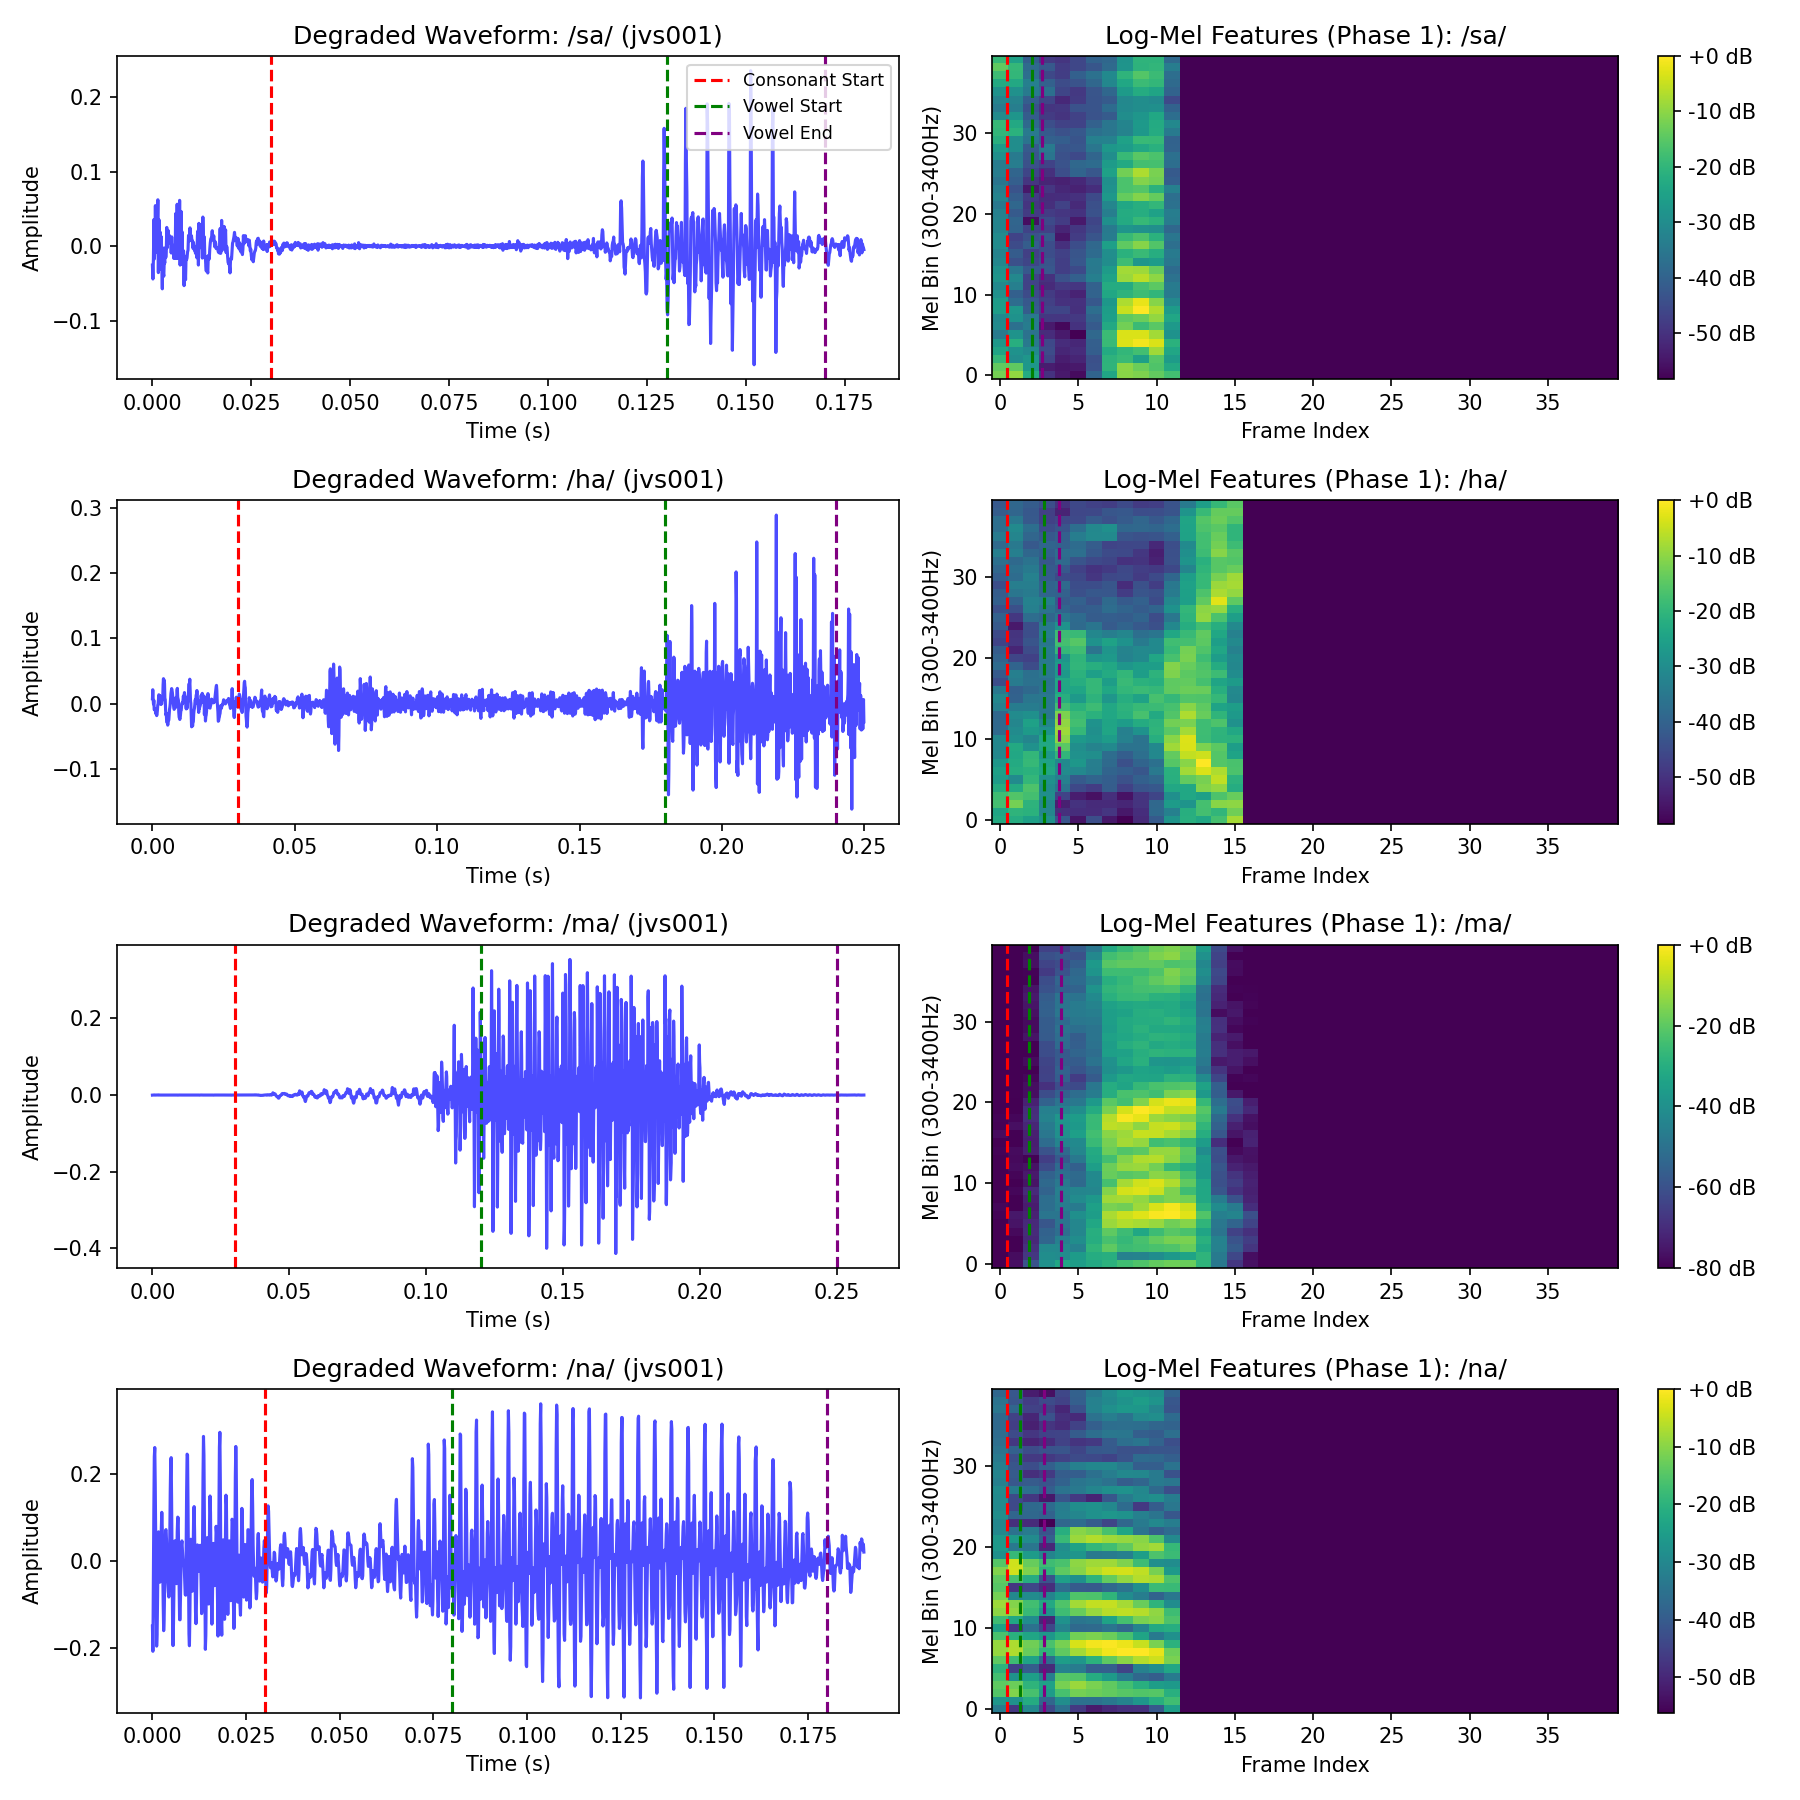
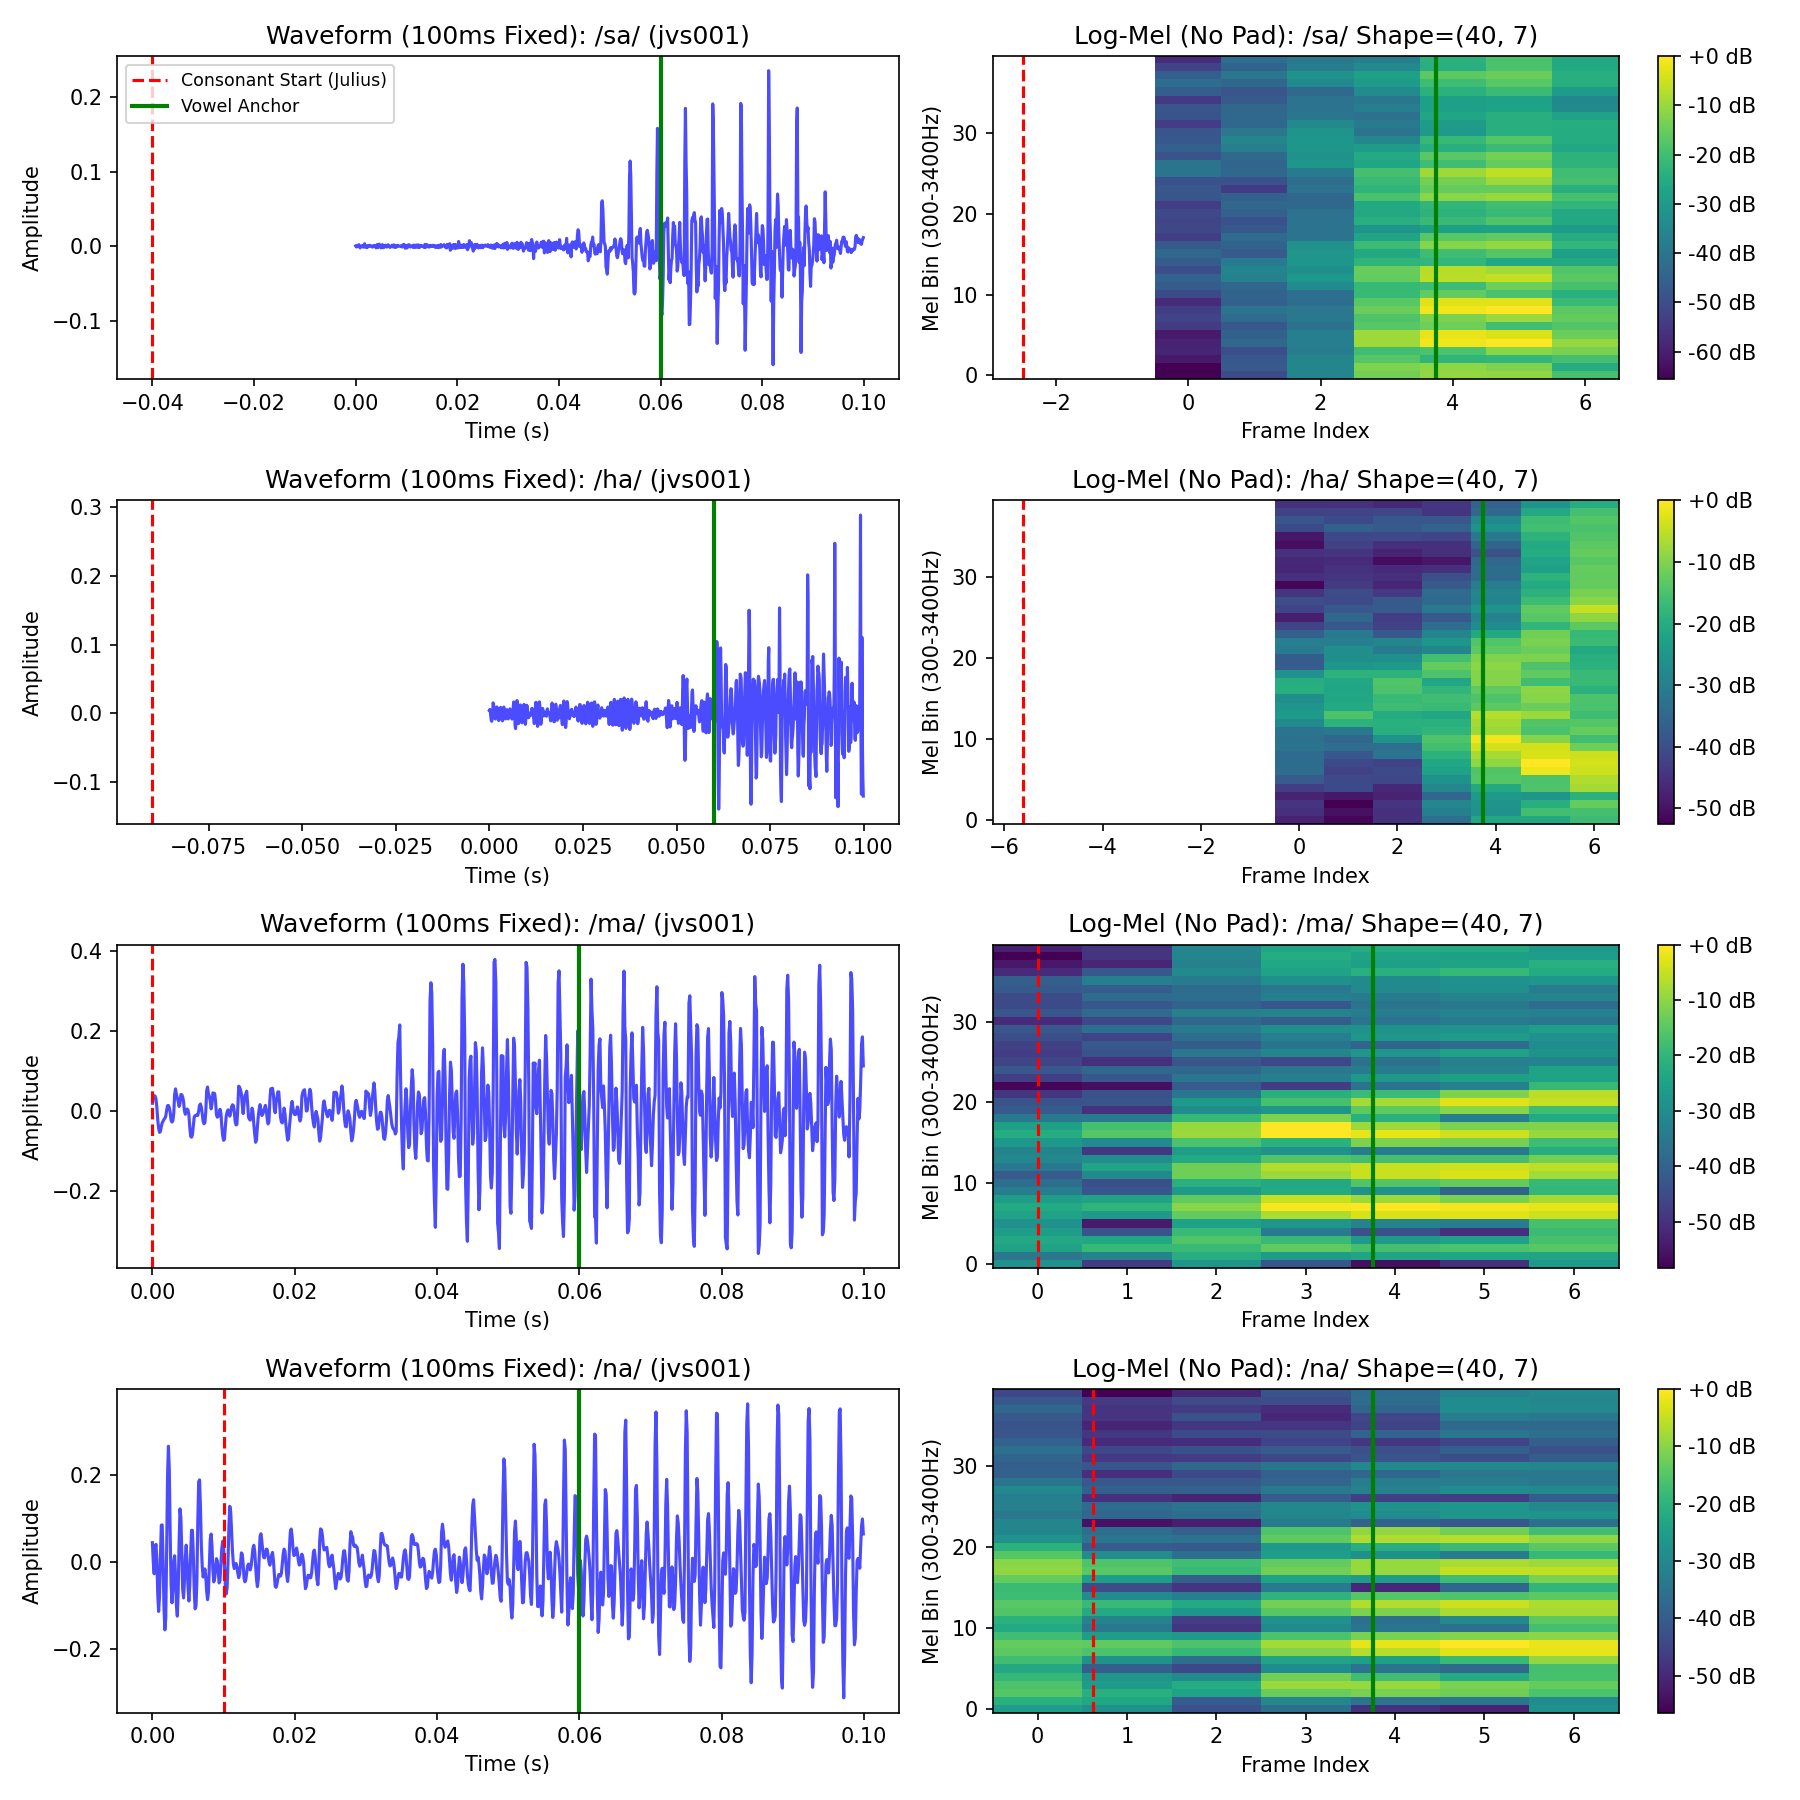
docs: update minutes with Vowel Anchor details and fix list item formatting

diff --git a/docs/minutes/05_consonant_validation_jvs.md b/docs/minutes/05_consonant_validation_jvs.md
@@ -22,6 +22,21 @@
 - **B（本物音源＋合成劣化）：今回（子音）** ← 母音より信頼度が高い
 - 将来（本物音源＋実回線劣化）：Phase2の最終仕上げ
 
+## 13.5 アライメントの欠陥とVowel-Anchor（母音アンカー）法への改修
+ステップ2-Bの目視検証により、Juliusアライメント（r9y9）には以下の致命的な欠陥があることが判明した。
+1. **子音開始境界の破綻**: 発話先頭の無音（silB）の終端や、ポーズ（sp）の欠落により、実際の音響的子音よりも数十ms手前に子音開始ラベルが打たれ、子音区間として切り出された音声の大半が「無音」になるケースが多発した（/ma/、/sa/等で確認）。
+2. **ゼロ埋めによるイカサマの余地**: 当初、変動する子音長に合わせてLog-Mel特徴量の後半をゼロパディングしていたが、この「パディングの長さ」が線形分類器に対するカンニング（長さによる音素判別）のトリガーとなる危険性が指摘された。
+
+これらを根本的に解決するため、切り出しロジックを**Vowel-Anchor（母音開始基準）方式**へ抜本的に改修した。
+- 精度が極めて高い「母音の開始位置」を絶対的なアンカー（基準点＝0ms）とする。
+- アンカーから前60ms、後40msの「合計100ms」を機械的に固定長で抽出する。
+- 抽出対象から「直前が無音・ポーズ」であるCV音節を除外する（コンテキスト・フィルタリング）。
+
+この改修により、ゼロ埋めパディングが完全に排除され、全CV特徴量が同一サイズ（40x7）かつ同一の「母音立ち上がり位置」で整列するようになり、分類器が純粋な音響的特徴（わたり・子音エネルギー）のみで勝負できる堅牢な測定系が完成した。
+
+![CV Extraction Vowel Anchor (Real JVS)](../assets/cv_extraction_test_vowel_anchor.png)
+- 将来（本物音源＋実回線劣化）：Phase2の最終仕上げ
+
 ## 13.4 分類単位の決定：CV音節（子音＋後続母音）
 子音井戸の混同行列は、**子音単体区間ではなくCV音節（子音＋後続母音）単位**で取得する。
 - **根拠**: 議事録6.3で「子音の調音位置は母音わたり（F2遷移）に転写されて電話帯域で生き残る」「大脳が候補を絞る補助情報に使う」と定義した。子音を単体に切り出すと、この遷移情報＝規格が重視した手がかりを捨てることになる。CV音節単位なら遷移が保たれ、実際の聞き取りにも近い。